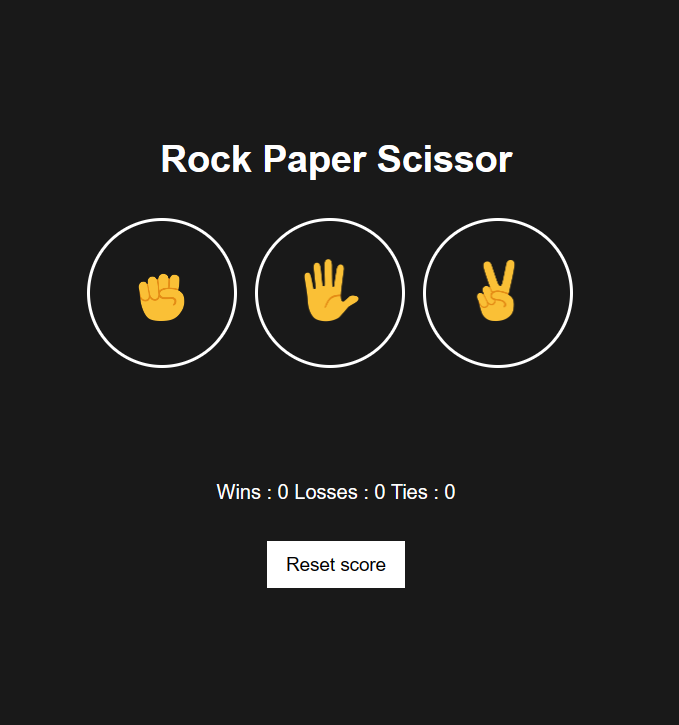
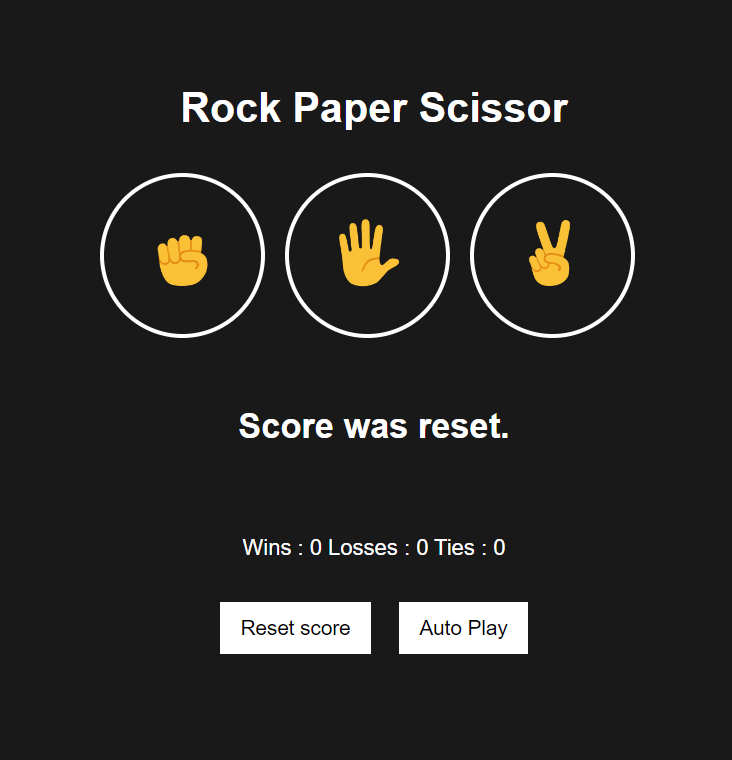
FEAT : Auto play Feature added

diff --git a/rock-paper-scissor/scripts/rock-paper-scissor.js b/rock-paper-scissor/scripts/rock-paper-scissor.js
@@ -1,4 +1,3 @@
-
 let score = JSON.parse(localStorage.getItem('score')) || {
   wins: 0,
   losses: 0,
@@ -6,6 +5,32 @@ let score = JSON.parse(localStorage.getItem('score')) || {
 };
 
 updateScore();
+
+let isAutoPlaying = false;
+let intervalId;
+function autoPlay(){
+  if (!isAutoPlaying){
+    intervalId = setInterval(() =>{
+      let playerMove = pickComputerMove();
+      playGame(playerMove);
+    }, 1000)
+
+    isAutoPlaying = true;
+  }else {
+    clearInterval(intervalId);
+    isAutoPlaying = false;
+  }
+  let autoPlayElement = document.querySelector('.auto-play');
+if (isAutoPlaying == true ){
+  autoPlayElement.innerText = 'Stop';
+  autoPlayElement.classList.add('stop-play');
+}else {
+  autoPlayElement.innerText = 'Auto Play';
+  autoPlayElement.classList.remove('stop-play');
+}
+}
+
+
 
 function reset() {
   score.wins = 0;

diff --git a/rock-paper-scissor/styles/rock-paper-scissor.css b/rock-paper-scissor/styles/rock-paper-scissor.css
@@ -55,7 +55,21 @@ body {
   margin-bottom: 40px;
 }
 
-.reset-button {
+.reset-button{
   display: flex;
   justify-content: center;
+}
+
+.auto-play{
+  background-color: white;
+  border: none;
+  font-size: 15px;
+  padding: 10px 15px;
+  margin-left: 20px;
+  cursor: pointer;
+}
+
+.stop-play {
+  background-color: red;
+  color: white ;
 }

diff --git a/rock-paper-scissor/index.html b/rock-paper-scissor/index.html
@@ -26,6 +26,7 @@
 <div class="reset-button"><button onclick="
   reset();
   " class="reset-score-button">Reset score</button>
+  <button class="auto-play" onclick="autoPlay();">Auto Play</button>
 </div></div> 
   <script src="./scripts/rock-paper-scissor.js"></script>
 </body>
